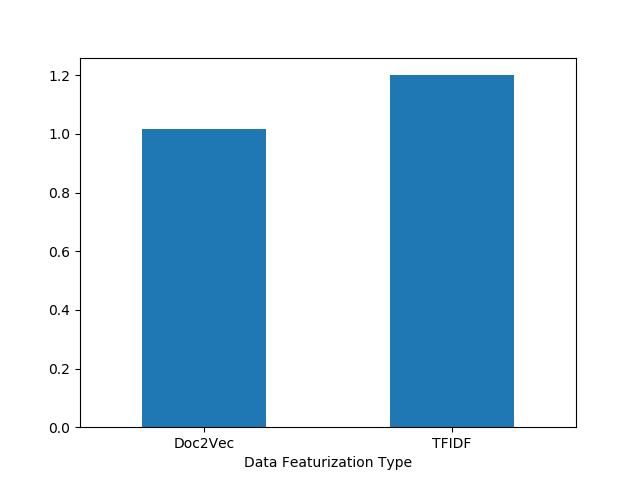
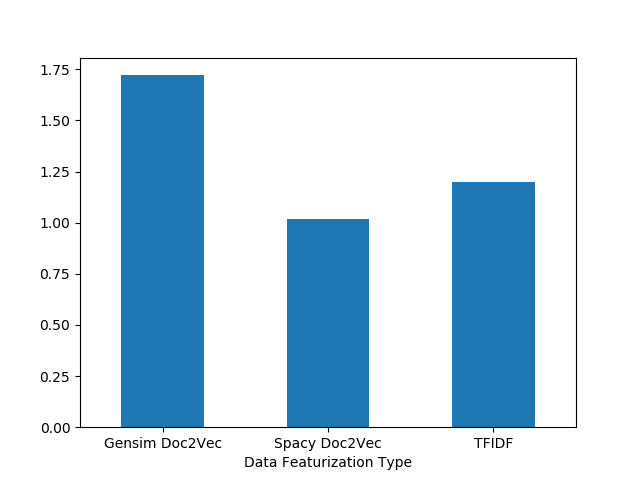
Added personal Doc2Vec Model

diff --git a/src/ModelCompare.py b/src/ModelCompare.py
@@ -5,13 +5,11 @@ import pyarrow.parquet as pq
 from ModelMaker import ModelMaker
 from sklearn.feature_extraction.text import TfidfTransformer, CountVectorizer
 from sklearn.model_selection import train_test_split, GridSearchCV
-from sklearn.decomposition import LatentDirichletAllocation, NMF, PCA
-from sklearn.preprocessing import StandardScaler
-from sklearn.metrics import pairwise_distances, mean_squared_error
+from sklearn.decomposition import PCA
+from sklearn.metrics import mean_squared_error
 from sklearn.pipeline import Pipeline
-from wordcloud import WordCloud
 from TextCleaning import TextFormating
-from imblearn.pipeline import make_pipeline
+from Doc2Vect import Doc2Vect
 from imblearn.over_sampling import SMOTE
 import timeit
 import spacy
@@ -91,7 +89,8 @@ if __name__ == "__main__":
     corpus_big, corpus_short, y_big, y_short = ModelSplitting(corpus, y, .25)
     word_vec, word_vec_short, y_big, y_short = ModelSplitting(word_vec, y, .25)
     X_train_tfidf, X_test_tfidf, y_train_tfidf, y_test_tfidf = train_test_split(corpus_short, y_short, test_size=.2, random_state=42, stratify=y_short)
-    X_train_vec, X_test_vec, y_train_vec, y_test_vec = train_test_split(word_vec_short, y_short, test_size=.2, random_state=42, stratify=y_short)
+    X_train_vec_spacy, X_test_vec_spacy, y_train_vec_spacy, y_test_vec_spacy = train_test_split(word_vec_short, y_short, test_size=.2, random_state=42, stratify=y_short)
+    X_train_vec_gensim, X_test_vec_gensim = Doc2Vect(X_train_tfidf, X_test_tfidf)()
     
     text_vect = Pipeline([
                         ('vect', CountVectorizer(max_features=5000, max_df=.85, min_df=2)),
@@ -108,10 +107,12 @@ if __name__ == "__main__":
     # plt.savefig('images/Screeplot.png')
 
     X_smt_tfidf, y_smt_tfidf = Smote(X_train_tfidf, y_train_tfidf)
-    X_smt_vec, y_smt_vec = Smote(X_train_vec, y_train_vec)
+    X_smt_vec_spacy, y_smt_vec_spacy = Smote(X_train_vec_spacy, y_train_vec_spacy)
+    X_smt_vec_gensim, y_smt_vec_gensim = Smote(X_train_vec_gensim, y_train_tfidf)
 
     Models_tfidf = ModelMaker(X_smt_tfidf, y_smt_tfidf)
-    Models_vec = ModelMaker(X_smt_vec, y_smt_vec)
+    Models_vec_spacy = ModelMaker(X_smt_vec_spacy, y_smt_vec_spacy)
+    Models_vec_gensim = ModelMaker(X_smt_vec_gensim, y_smt_vec_gensim)
 
     param_grid_random_forest = {
         'max_depth': [None,3],
@@ -126,16 +127,20 @@ if __name__ == "__main__":
     # Params_Random_Forest_Vec = {'bootstrap': False, 'max_depth': None, 'max_features': 'sqrt', 'min_samples_leaf': 1, 'min_samples_split': 2, 'n_estimators': 100, 'random_state': 42}
 
     RandomForestclf_tfidf, RandomForestsBestParams_tfidf = Models_tfidf.Random_Forest(param_grid_random_forest)
-    RandomForestclf_vec, RandomForestsBestParams_vec = Models_vec.Random_Forest(param_grid_random_forest)
+    RandomForestclf_vec_spacy, RandomForestsBestParams_vec_spacy = Models_vec_spacy.Random_Forest(param_grid_random_forest)
+    RandomForestclf_vec_gensim, RandomForestsBestParams_vec_gensim = Models_vec_gensim.Random_Forest(param_grid_random_forest)
 
     print('Params for Random Forest tfidf: ', RandomForestsBestParams_tfidf)
-    print('Params for Random Forest Vec: ', RandomForestsBestParams_vec)
+    print('Params for Random Forest Spacy Vec: ', RandomForestsBestParams_vec_spacy)
+    print('Params for Random Forest Gensim Vec: ', RandomForestsBestParams_vec_gensim)
 
     y_pred_random_forest_tfidf = RandomForestclf_tfidf.predict(X_test_tfidf)
-    y_pred_random_forest_vec = RandomForestclf_vec.predict(X_test_vec)
+    y_pred_random_forest_vec_spacy = RandomForestclf_vec_spacy.predict(X_test_vec_spacy)
+    y_pred_random_forest_vec_gensim = RandomForestclf_vec_gensim.predict(X_test_vec_gensim)
 
     RandomForestMSE_tfidf = mean_squared_error(y_test_tfidf, y_pred_random_forest_tfidf)
-    RandomForestMSE_vec = mean_squared_error(y_test_vec, y_pred_random_forest_vec)
+    RandomForestMSE_vec_spacy = mean_squared_error(y_test_vec_spacy, y_pred_random_forest_vec_spacy)
+    RandomForestMSE_vec_gensim = mean_squared_error(y_test_tfidf, y_pred_random_forest_vec_gensim)
 
     # #Gradient Boosting
     # param_grid_grad_boost = {
@@ -186,7 +191,7 @@ if __name__ == "__main__":
     # # MLPNNMSE_theta = mean_squared_error(y_test_theta, y_pred_MLPNN_theta)
 
     # comparing the models
-    modelScores = {'Data Featurization Type': ['Doc2Vec', 'TFIDF'], 'Mean Squared Error' : [RandomForestMSE_vec, RandomForestMSE_tfidf]}
+    modelScores = {'Data Featurization Type': ['Gensim Doc2Vec','Spacy Doc2Vec', 'TFIDF'], 'Mean Squared Error' : [RandomForestMSE_vec_gensim, RandomForestMSE_vec_spacy, RandomForestMSE_tfidf]}
     df_acc = pd.DataFrame.from_dict(modelScores)
     df_acc.plot(kind='bar', x='Data Featurization Type', rot=0, legend=False)
     plt.savefig('images/Model_MSE.png')

diff --git a/src/Doc2Vect.py b/src/Doc2Vect.py
@@ -1,0 +1,30 @@
+import numpy as np
+import pandas as pd
+from gensim.models.doc2vec import Doc2Vec, TaggedDocument
+from gensim.utils import simple_preprocess
+import spacy
+import random
+
+np.random.seed(100)
+class Doc2Vect(object):
+    def __init__(self, X_train, X_test):
+        self.X_train = X_train
+        self.X_test = X_test
+    
+    def __call__(self, save = False):
+        self.documents = list(self.Tag_Document())
+        model = self._make_model()
+        if save:
+            model.save('temp_Doc2Vec_model')
+        doc_vec_train = [model.infer_vector(i) for i in self.X_train]
+        doc_vec_test = [model.infer_vector(i) for i in self.X_test]
+        doc_vec_train = np.vstack(doc_vec_train)
+        doc_vec_test = np.vstack(doc_vec_test)
+        return doc_vec_train, doc_vec_test
+    def _make_model(self, embedding_size = 50):
+        model = Doc2Vec(self.documents, vector_size=150, window=2, min_count=1)
+        return model
+    
+    def Tag_Document(self):
+        for idx, doc in enumerate(self.X_train):
+            yield TaggedDocument(simple_preprocess(doc, min_len=1), [idx])

diff --git a/src/TextCleaning.py b/src/TextCleaning.py
@@ -60,8 +60,9 @@ class TextFormating(object):
         self.nlp = spacy.load('en_core_web_lg')
 
     def __call__(self):
-        cleaned = self._spacy_cleaner(self.X)
-        return self.WordVect(cleaned)
+        cleaned = [self._spacy_cleaner(i) for i in self.X]
+        return np.asarray(cleaned)
+        #return self.WordVect(cleaned)
 
     def _spacy_cleaner(self,Doc):
         try:
